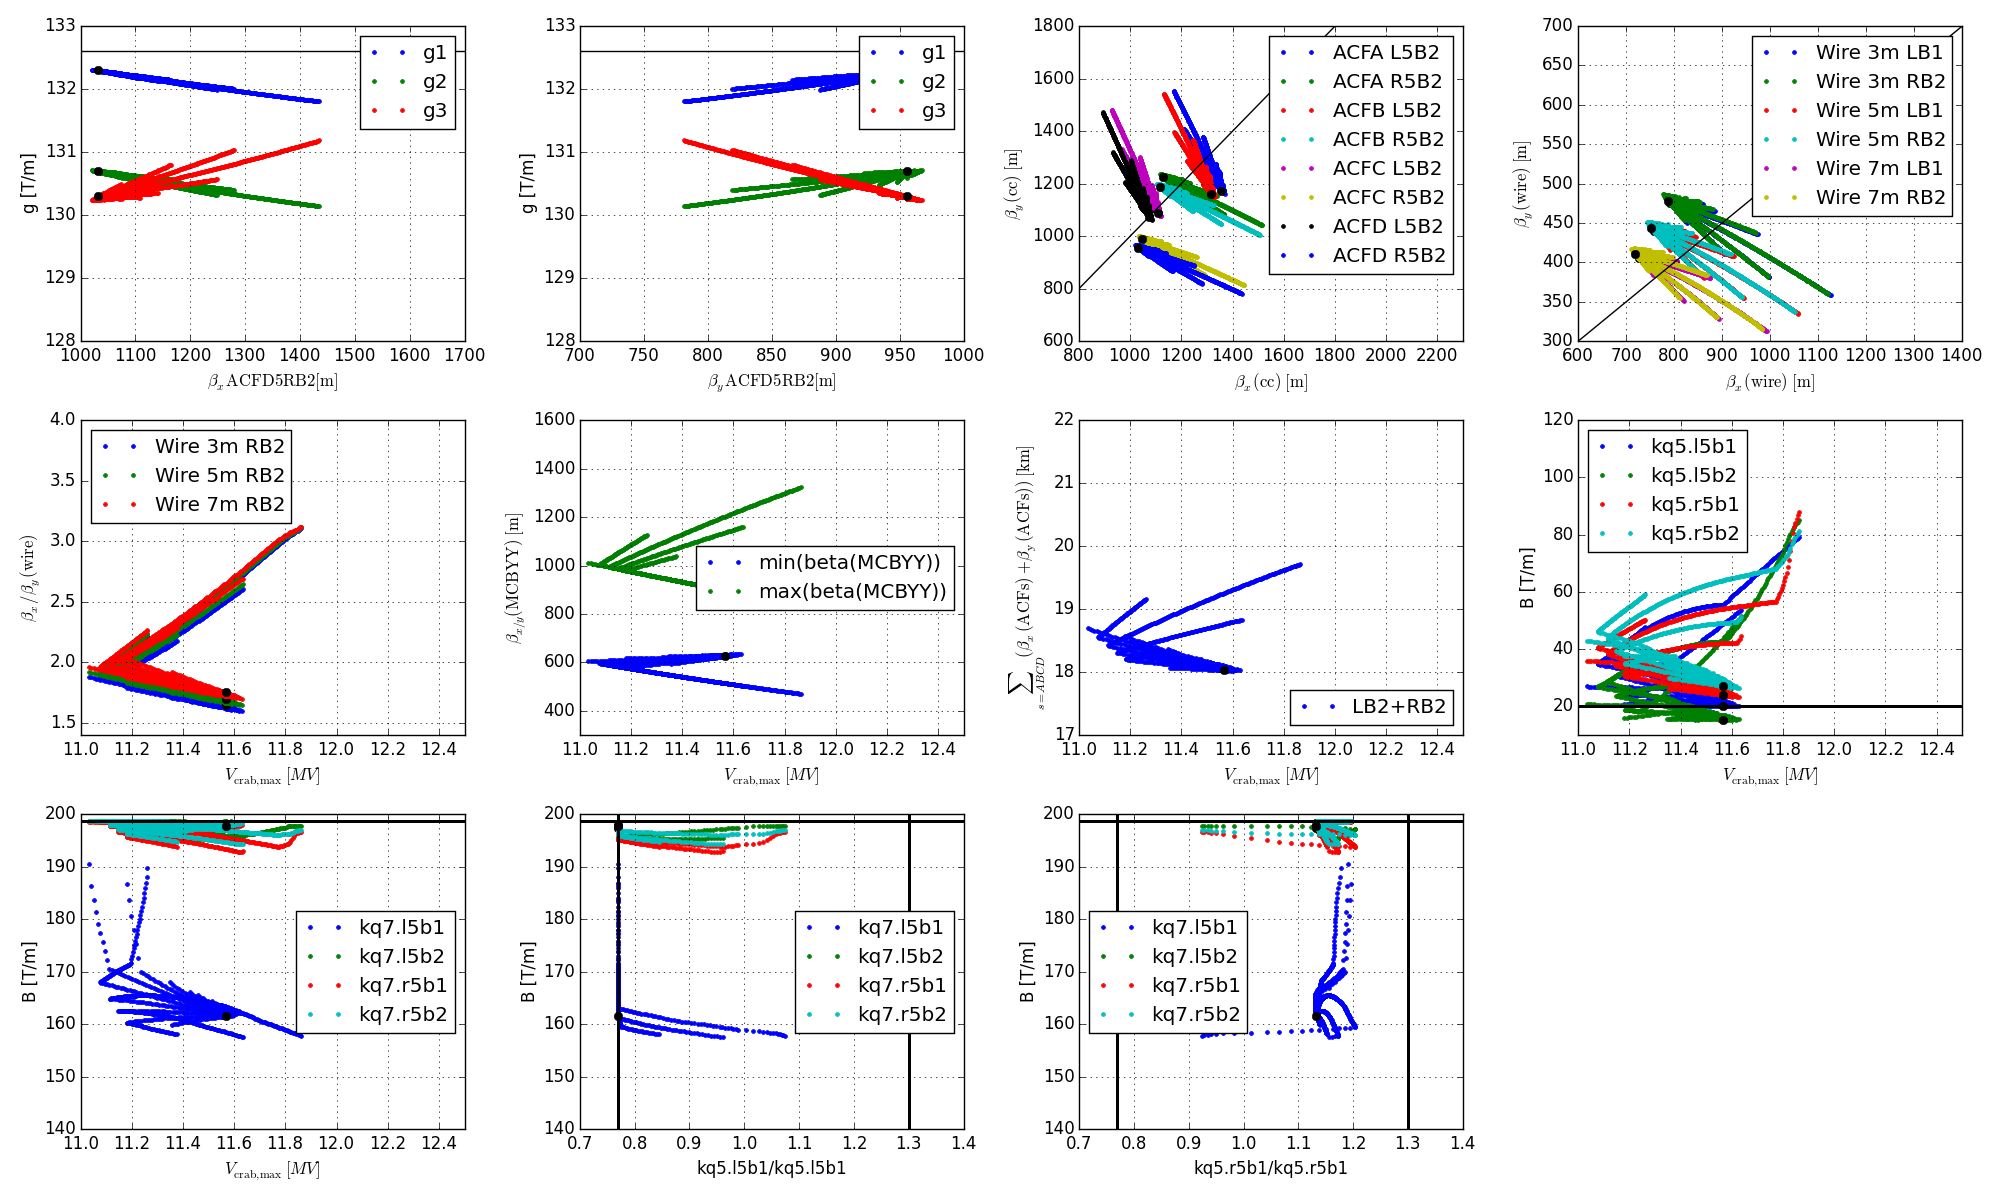
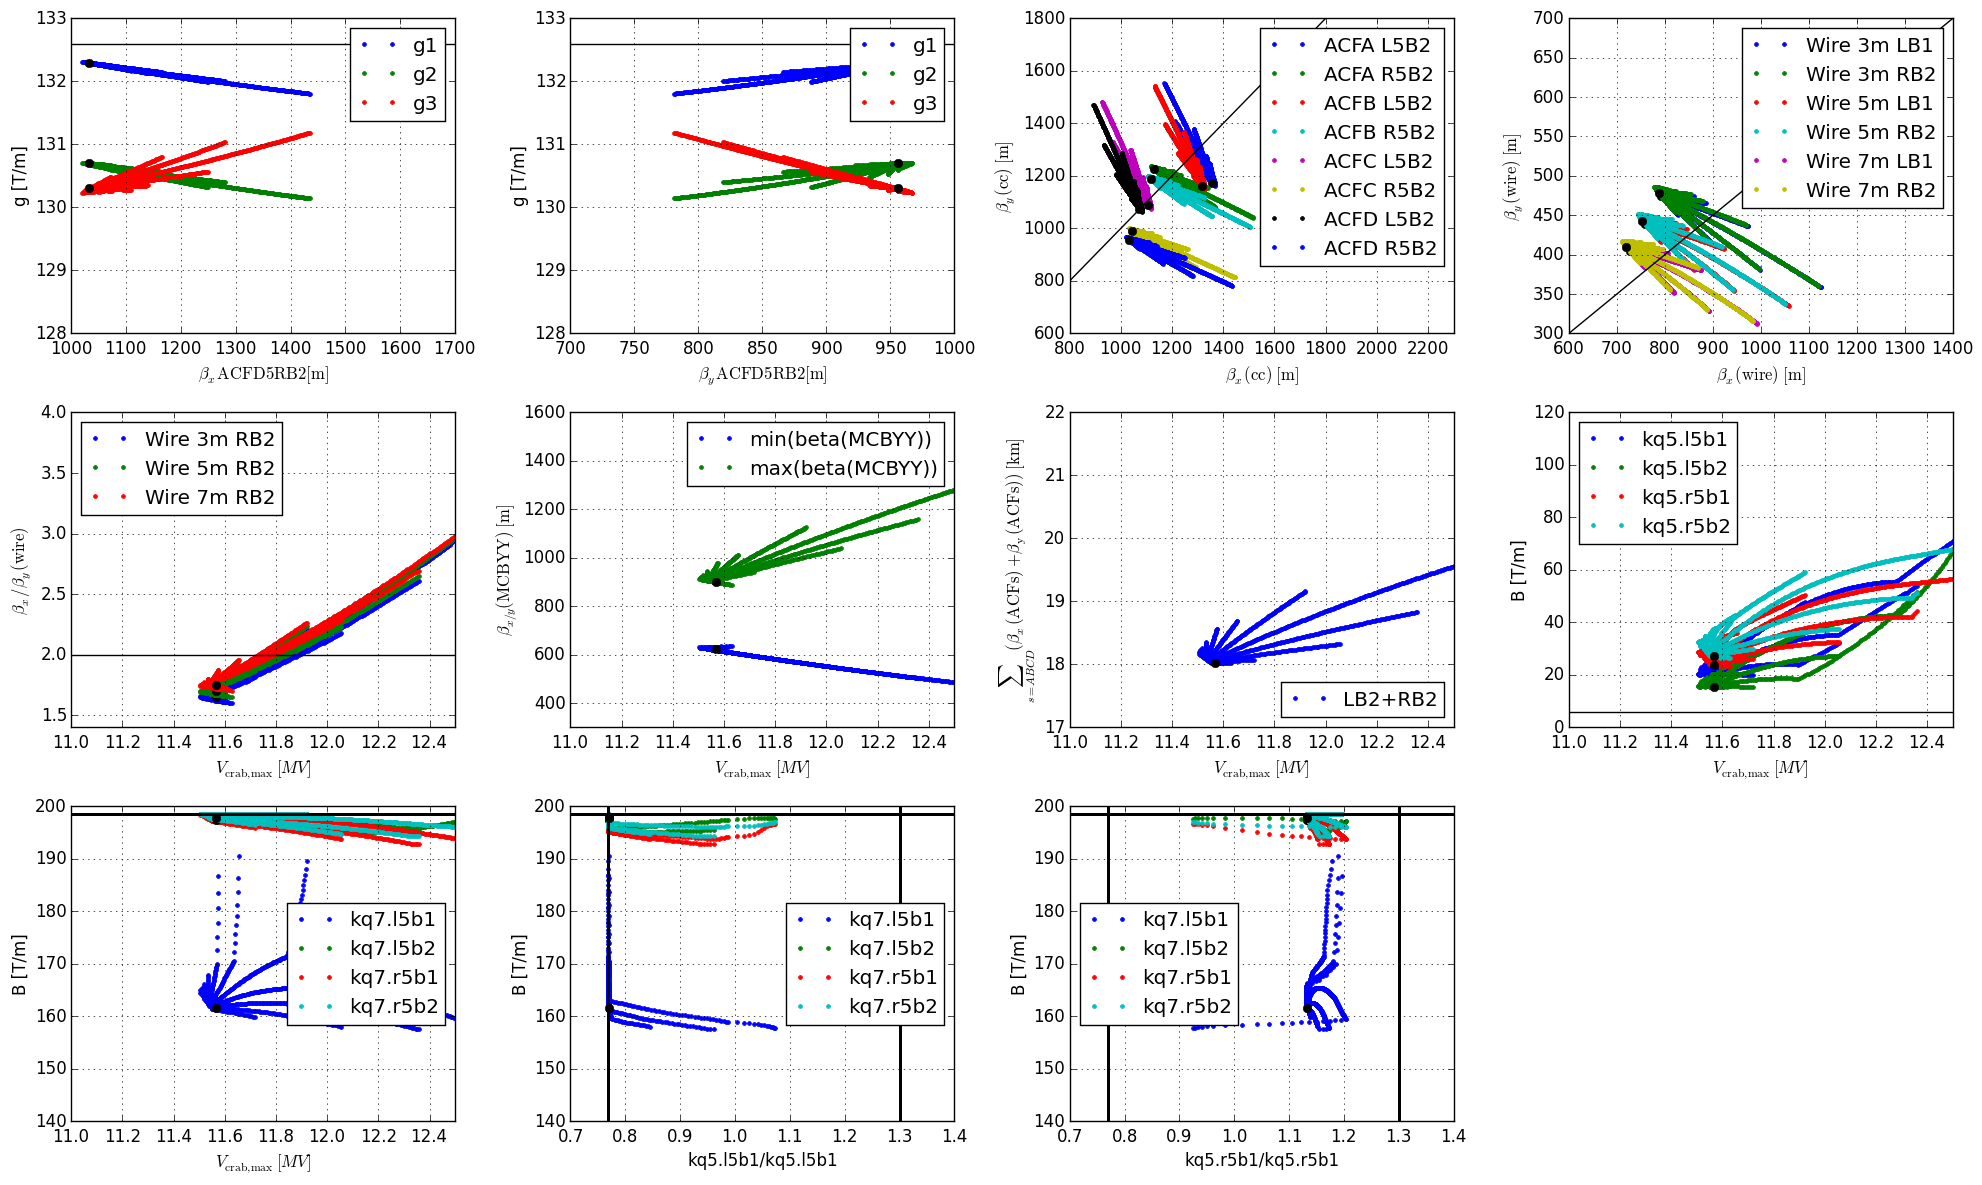
scan results with corrected cc voltage calculation

Changed region(s): [[0.0, 0.0, 1.0, 0.9992], [0.0, 0.0, 0.4924, 0.1873], [0.5232, 0.4371, 0.554, 0.4684]]

diff --git a/study_presqueeze/mkplot.py b/study_presqueeze/mkplot.py
@@ -44,21 +44,29 @@ def plot_range(t,lpar):
   pmax=max([max(t[ll]) for ll in lpar])
   pmin=min([min(t[ll]) for ll in lpar])
   return (pmin-20,pmax+100)
-def mkfig_crab_wire(fn):
+def mkfig_crab_wire(fn,indfig=False):
+    """create all plots in one big figure
+    indfig = False: one figure
+    indfig = True : each subplot in a individual figure"""
     ynn='g1 g2 g3'.split()
     t=optics.open(fn)
     fnbase=fn.split('.tfs')[0]
     case=fnbase.split('/')[0].split('scan')[1]
+    if(indfig == True): figname=fnbase+'_cc'+case
+    else: figname=(fnbase+'_cc'+case+'.png')
     brho7TeV=23348.89927
     qtlimq5= 200.0#Q5
     qtlim3 = 200.0#Q7
     #calculate cc voltage
     t,vmax=get_cc_max(t)#adds also t['vcrabh_lb2_ref'] and t['vcrabh_rb2_ref'] to t
     #--- figure 1
-    figure(fn+'_cc',figsize=(20,12))
-    title(fnbase+'_cc')
-    clf()
-    subplot(341)
+    if(indfig == True):
+      figure()
+    else:
+      figure(fn+'_cc',figsize=(20,12))
+      title(fnbase+'_cc')
+      clf()
+      subplot(341)
     for yy in ynn:
         plot(t.betx_acfdrb2_ref,abs(t[yy]),'.',label=yy)
         plot(t.betx_acfdrb2_ref[0],abs(t[yy])[0],'ko')#starting point
@@ -69,7 +77,10 @@ def mkfig_crab_wire(fn):
     ylim(128,133)
     legend()
     grid()
-    subplot(342)
+    if(indfig == True):
+      savefig(figname+'_1.png')
+      figure() 
+    else: subplot(342)
     for yy in ynn:
         plot(t.bety_acfdrb2_ref,abs(t[yy]),'.',label=yy)
         plot(t.bety_acfdrb2_ref[0],abs(t[yy])[0],'ko')#starting point
@@ -80,7 +91,10 @@ def mkfig_crab_wire(fn):
     ylim(128,133)
     legend()
     grid()
-    subplot(343)
+    if(indfig == True):
+      savefig(figname+'_2.png')
+      figure()
+    else: subplot(343)
     for cc in 'abcd':
       for ll in 'lr':
         pp='_acf%s%sb2_ref'%(cc,ll)
@@ -93,7 +107,10 @@ def mkfig_crab_wire(fn):
     ylim(600,1800)
     legend()
     grid()
-    subplot(344)
+    if(indfig == True):
+      savefig(figname+'_3.png')
+      figure()
+    else: subplot(344)
     #calculate beta at wire at 7m
     t['betx_wire7mlb1_ref'],t['bety_wire7mlb1_ref'],t['betx_wire7mrb2_ref'],t['bety_wire7mrb2_ref']=from_wire_5m(t,2)
     for pw in '357':
@@ -113,12 +130,16 @@ def mkfig_crab_wire(fn):
 #    xlim(plot_range(t,['betx_wire3mlb1_ref','betx_wire5mlb1_ref','betx_wire7mlb1_ref','betx_wire3mrb2_ref','betx_wire5mrb2_ref','betx_wire7mrb2_ref']))
 #    ylim(plot_range(t,['bety_wire3mlb1_ref','bety_wire5mlb1_ref','bety_wire7mlb1_ref','bety_wire3mrb2_ref','bety_wire5mrb2_ref','bety_wire7mrb2_ref']))
     #---- Vmax vs betx/bety wire
-    subplot(345)
+    if(indfig == True):
+      savefig(figname+'_4.png')
+      figure()
+    else: subplot(345)
     #calculate beta at wire at 7m
     t['betx_wire7mlb1_ref'],t['bety_wire7mlb1_ref'],t['betx_wire7mrb2_ref'],t['bety_wire7mrb2_ref']=from_wire_5m(t,2)
     for pw in '357':
       plot(vmax,t['betx_wire'+pw+'mrb2_ref']/t['bety_wire'+pw+'mrb2_ref'],'.',label='Wire '+pw+'m RB2')
       plot(vmax[0],t['betx_wire'+pw+'mrb2_ref'][0]/t['bety_wire'+pw+'mrb2_ref'][0],'ko')#starting point
+    plot([0,20],[2.0,2.0],'k-')
     xlabel(r'$V_{\rm crab, max} \ [MV]$')
     ylabel(r'$\beta_x/\beta_y(\rm wire)$')
     legend(loc='upper left')
@@ -126,7 +147,10 @@ def mkfig_crab_wire(fn):
     xlim(11,12.5)
     ylim(1.4,4.0)
     #---- Vmax vs beta_min(MCBYY), beta_max(MCBYY)
-    subplot(346)
+    if(indfig == True):
+      savefig(figname+'_5.png')
+      figure()
+    else: subplot(346)
     bmin_mcbyy=np.min([t.betx_mcby_ref,t.bety_mcby_ref], axis=0)
     bmax_mcbyy=np.max([t.betx_mcby_ref,t.bety_mcby_ref], axis=0)
     plot(vmax,bmin_mcbyy,'.',label='min(beta(MCBYY))')
@@ -140,7 +164,10 @@ def mkfig_crab_wire(fn):
     ylim(300,1600)
     grid()
     #---- Vmax vs impedance
-    subplot(347)
+    if(indfig == True):
+      savefig(figname+'_6.png')
+      figure()
+    else: subplot(347)
     beta_crab_sum = get_sum_beta(t)
     plot(vmax,beta_crab_sum*1.e-3,'.',label='LB2+RB2')
     plot(vmax[0],beta_crab_sum[0]*1.e-3,'ko')#starting point
@@ -151,7 +178,10 @@ def mkfig_crab_wire(fn):
     ylim(17,22)
     grid()
     #---- Vmax vs kq5
-    subplot(348)
+    if(indfig == True):
+      savefig(figname+'_7.png')
+      figure()
+    else: subplot(348)
     for ss in 'lr':
       for bb in '12':
         plot(vmax,abs(t['kq5.%s5b%s'%(ss,bb)])*brho7TeV,'.',label='kq5.%s5b%s'%(ss,bb)) 
@@ -165,7 +195,10 @@ def mkfig_crab_wire(fn):
     grid()
     legend(loc='upper left') 
     #---- Vmax vs kq7 strength
-    subplot(349)
+    if(indfig == True):
+      savefig(figname+'_8.png')
+      figure()
+    else: subplot(349)
     for ss in 'lr':
       for bb in '12':
         plot(vmax,abs(t['kq7.%s5b%s'%(ss,bb)])*brho7TeV,'.',label='kq7.%s5b%s'%(ss,bb)) 
@@ -179,7 +212,10 @@ def mkfig_crab_wire(fn):
     grid()
     legend(loc='center right')
     #---- imq5l vs kq7 strength
-    subplot(3,4,10)
+    if(indfig == True):
+      savefig(figname+'_9.png')
+      figure()
+    else: subplot(3,4,10)
     imq5l=t['kq5.l5b2']/t['kq5.l5b1']
     for ss in 'lr':
       for bb in '12':
@@ -195,7 +231,10 @@ def mkfig_crab_wire(fn):
     grid()
     legend(loc='center right')
     #---- imq5r vs kq7 strength
-    subplot(3,4,11)
+    if(indfig == True):
+      savefig(figname+'_10.png')
+      figure()
+    else: subplot(3,4,11)
     imq5r=t['kq5.r5b2']/t['kq5.r5b1']
     for ss in 'lr':
       for bb in '12':
@@ -210,9 +249,11 @@ def mkfig_crab_wire(fn):
     ylabel(r'B [T/m]')
     grid()
     legend(loc='center left')
-    tight_layout()
-    figname=(fnbase+'_cc'+case+'.png')
-    savefig(figname)
+    if(indfig == True):
+      savefig(figname+'_11.png')
+    else:
+      tight_layout()
+      savefig(figname)
 close('all')
 #mkfig('results_riccardo/presqueze_q4_scan99.3.tfs')
 #mkfig('results_riccardo/presqueze_q4_scan100.tfs')
@@ -220,17 +261,18 @@ close('all')
 #mkfig('scan_q4_8m/presqueze_q4_scan99.3.tfs')
 #mkfig('scan_q4_8m/presqueze_q4_scan100.tfs')
 #mkfig('scan_q4_8m/presqueze_q4_scan107.tfs')
+indfig=False
 #mkfig_crab_wire('scan_q4_8m/presqueze_q4_scan100.tfs')
 #mkfig_crab_wire('scan_q4_8m/presqueze_q4_scan107.tfs')
-mkfig_crab_wire('scan_q4_8m/presqueze_q4_scan99.3.tfs')
-#mkfig_crab_wire('scan_q4_10m/presqueze_q4_scan99.3.tfs')
-#mkfig_crab_wire('scan_q4_6m/presqueze_q4_scan99.3.tfs')
-#mkfig_crab_wire('scan_q5_9m/presqueze_q4_scan99.3.tfs')
-#mkfig_crab_wire('scan_q5_13m/presqueze_q4_scan99.3.tfs')
-#mkfig_crab_wire('scan_q4_6m_q5_9m/presqueze_q4_scan99.3.tfs')
-#mkfig_crab_wire('scan_q4_6m_q5_13m/presqueze_q4_scan99.3.tfs')
-#mkfig_crab_wire('scan_q4_10m_q5_9m/presqueze_q4_scan99.3.tfs')
-#mkfig_crab_wire('scan_q4_10m_q5_13m/presqueze_q4_scan99.3.tfs')
+mkfig_crab_wire('scan_q4_8m/presqueze_q4_scan99.3.tfs',indfig)
+mkfig_crab_wire('scan_q4_10m/presqueze_q4_scan99.3.tfs')
+mkfig_crab_wire('scan_q4_6m/presqueze_q4_scan99.3.tfs')
+mkfig_crab_wire('scan_q5_9m/presqueze_q4_scan99.3.tfs')
+mkfig_crab_wire('scan_q5_13m/presqueze_q4_scan99.3.tfs')
+mkfig_crab_wire('scan_q4_6m_q5_9m/presqueze_q4_scan99.3.tfs')
+mkfig_crab_wire('scan_q4_6m_q5_13m/presqueze_q4_scan99.3.tfs')
+mkfig_crab_wire('scan_q4_10m_q5_9m/presqueze_q4_scan99.3.tfs')
+mkfig_crab_wire('scan_q4_10m_q5_13m/presqueze_q4_scan99.3.tfs')
 
 draw()
 show()

diff --git a/study_presqueeze/mktable.py b/study_presqueeze/mktable.py
@@ -46,6 +46,34 @@ def print_opt(t,name,idx,lw5q5):
     idx0=idx
   print fmt%(idx0,name.ljust(10),bxbywire3,bxbywire7,t['betx_wire3mrb2_ref'][idx],t['betx_wire7mrb2_ref'][idx],t['bety_wire3mrb2_ref'][idx],t['bety_wire7mrb2_ref'][idx],vmax[idx],imp[idx]*1.e-3,t['betx_mbrdrb2_ref'][idx],t['bety_mbrdrb2_ref'][idx],t['betx_mcby_ref'][idx],t['bety_mcby_ref'][idx],t['betx_q5rb2_ref'][idx],t['bety_q5rb2_ref'][idx])
 
+def print_opt_sum(t,name,idx,lw5q5):
+  # wire
+  bxbywire5=t['betx_wire5mrb2_ref'][idx]/t['bety_wire5mrb2_ref'][idx]
+  bmaxwire5=max([t['betx_wire5mrb2_ref'][idx],t['bety_wire5mrb2_ref'][idx]])
+  bminwire5=min([t['betx_wire5mrb2_ref'][idx],t['bety_wire5mrb2_ref'][idx]])
+  #cc voltage
+  t,vmax=get_cc_max(t)
+  #impedance
+  imp=get_sum_beta(t)
+  #Q4
+  bmaxq4=max([t['betx_mcby_ref'][idx],t['bety_mcby_ref'][idx]])
+  bminq4=min([t['betx_mcby_ref'][idx],t['bety_mcby_ref'][idx]])
+  #Q5
+  t['betx_q5lb1_ref'],t['bety_q5lb1_ref'],t['betx_q5rb2_ref'],t['bety_q5rb2_ref']=from_wire_5m(t,lw5q5) 
+  bmaxq5=max([t['betx_q5lb1_ref'][idx],t['bety_q5lb1_ref'][idx],t['betx_q5rb2_ref'][idx],t['bety_q5rb2_ref'][idx]])
+  bminq5=min([t['betx_q5lb1_ref'][idx],t['bety_q5lb1_ref'][idx],t['betx_q5rb2_ref'][idx],t['bety_q5rb2_ref'][idx]])
+  #D2
+  lacfad2=-18.972000#distance start D2 and ACFA cavity
+  t['betx_mbrdlb1_ref'],t['bety_mbrdlb1_ref'],t['betx_mbrdrb2_ref'],t['bety_mbrdrb2_ref']=from_acfa(t,lacfad2)
+  bmaxd2=max([t['betx_mbrdlb1_ref'][idx],t['bety_mbrdlb1_ref'][idx],t['betx_mbrdrb2_ref'][idx],t['bety_mbrdrb2_ref'][idx]])
+  bmind2=min([t['betx_mbrdlb1_ref'][idx],t['bety_mbrdlb1_ref'][idx],t['betx_mbrdrb2_ref'][idx],t['bety_mbrdrb2_ref'][idx]])
+  fmt='%4u %10s'+('%5.2f'.center(15))+('%5.2f/%5.2f'.center(30))+('%5.2f'.center(15))+('%5.4f'.center(16))+('%5.2f/%5.2f'.center(15)*3) 
+  if 'idx' in t.keys():
+    idx0=t.idx[idx]-1
+  else:
+    idx0=idx
+  print fmt%(idx0,name.ljust(10),bxbywire5,bminwire5,bmaxwire5,vmax[idx],imp[idx]*1.e-3,bmind2,bmaxd2,bminq4,bmaxq4,bminq5,bmaxq5)
+
 def print_con():
   print 'wire: RB2'
   print 'MCBYY: RB2'
@@ -59,6 +87,12 @@ def print_header(fn):
   w37='   3m    7m    '
   print fmt%('idx','optics'.ljust(10),'betx/bety(wire)','betx(wire) [m]'.center(15),'bety(wire) [m]'.center(15),'Vmax [MV]'.center(10),'sum_beta_cc [km]'.center(16),'MBRD [m]'.center(15),'MCBYY [m]'.center(15),'MQY [m]'.center(15))
   print fmt%('','',w37,w37,w37,'','','betx    bety'.center(15),'betx    bety'.center(15),'betx    bety'.center(15))
+
+def print_header_sum(fn):
+  print '\n%s'%fn
+  fmt='%4s %10s %15s %30s %15s %16s %15s %15s %15s'
+  print ' '.center(100)+'betmin/betmax [m]'.center(45)
+  print fmt%('idx','optics'.ljust(10),'betx/bety(wire)','betmin/betmax(wire) [m]'.center(30),'Vmax [MV]'.center(15),'sum_beta_cc [km]'.center(16),'MBRD [m]'.center(15),'MCBYY [m]'.center(15),'MQY [m]'.center(15))
 
 def mktab(fn):
   print_header(fn)
@@ -83,9 +117,16 @@ def mktab(fn):
 def mktab_opt(fn):
   print_header(fn)
   t=optics.open(fn)
-  lw5q5=21.275
+  lw5q5=21.275#distance wire 5m to q5
   for idx,name in zip(range(len(t['idx'])),['presqueeze','wire','ccvolt','impedance','q4ap']):
     print_opt(t,name,idx,lw5q5)
+
+def mktab_opt_sum(fn):
+  print_header_sum(fn)
+  t=optics.open(fn)
+  lw5q5=21.275#distance wire 5m to q5
+  for idx,name in zip(range(len(t['idx'])),['presqueeze','wire','ccvolt','impedance','q4ap']):
+    print_opt_sum(t,name,idx,lw5q5)
 
 print_con();
 mktab_opt('scan_q4_8m/presqueeze_q4_scan_opt99.3.tfs')
@@ -100,3 +141,6 @@ mktab('scan_q4_6m_q5_9m/presqueze_q4_scan99.3.tfs')
 #mktab_opt('scan_q4_8m/presqueeze_q4_scan_opt99.3.tfs')
 #mktab_opt('scan_q4_10m_q5_13m/presqueeze_q4_scan_opt99.3.tfs')
 #mktab_opt('scan_q4_6m_q5_9m/presqueeze_q4_scan_opt99.3.tfs')
+#mktab_opt_sum('scan_q4_8m/presqueeze_q4_scan_opt99.3.tfs')
+#mktab_opt_sum('scan_q4_10m_q5_13m/presqueeze_q4_scan_opt99.3.tfs')
+#mktab_opt_sum('scan_q4_6m_q5_9m/presqueeze_q4_scan_opt99.3.tfs')

diff --git a/study_presqueeze/analysispkg.py b/study_presqueeze/analysispkg.py
@@ -17,7 +17,7 @@ def from_acfa(t,ldrift):
   bxrb2=t.betx_acfarb2_ref-2*t.alfx_acfarb2_ref*ldrift+ldrift**2*(1+t.alfx_acfarb2_ref**2)/t.betx_acfarb2_ref
   byrb2=t.bety_acfarb2_ref-2*t.alfy_acfarb2_ref*ldrift+ldrift**2*(1+t.alfy_acfarb2_ref**2)/t.bety_acfarb2_ref
   return bxlb1,bylb1,bxrb2,byrb2
-def get_cc(t,ll='r',bb='2'):
+def get_cc(t,ll='r',bb='2',xy='x'):
   """calculate the cc voltage *vcrab* in [MV]:
      vcrab = ncc*Ebeam*tan(xing)*sigma_s/(beta*sin(2*pi*hrf_cc*sigma_s/clight))*1.e-6
   ncc   : number of cc per IP and side (e.g. lb2)
@@ -35,7 +35,7 @@ def get_cc(t,ll='r',bb='2'):
   Ebeam=7.0e12 #V
   sigma_s=0.075 #bunch length [m]
   ncc=4#number of crab cavities
-  beta  = np.sum(np.array([ sqrt(beta_star*t['betx_acf%s%sb%s_ref'%(aa,ll,bb)]) for aa in 'abcd']),axis=0)
+  beta  = np.sum(np.array([ sqrt(beta_star*t['bet%s_acf%s%sb%s_ref'%(xy,aa,ll,bb)]) for aa in 'abcd']),axis=0)
   vcrab = ncc*Ebeam*tan(xing)*sigma_s/(beta*sin(2*pi*hrf_cc*sigma_s/clight))*1.e-6
   return vcrab
 def get_cc_max(t):
@@ -45,15 +45,15 @@ def get_cc_max(t):
   it is sufficient to take the max over one beam
   and one ir"""
   if 'v_crabv.r1b1' in t.keys():
-    aa=aa='v_crabh.l1b1,v_crabh.r1b1,v_crabh.l5b1,v_crabh.r5b1,v_crabh.l1b2,v_crabh.r1b2,v_crabh.l5b2,v_crabh.r5b2,v_crabv.l1b1,v_crabv.r1b1,v_crabv.l5b1,v_crabv.r5b1,v_crabv.l1b2,v_crabv.r1b2,v_crabv.l5b2,v_crabv.r5b2'.split(',')
+    aa='v_crabh.l1b1,v_crabh.r1b1,v_crabh.l5b1,v_crabh.r5b1,v_crabh.l1b2,v_crabh.r1b2,v_crabh.l5b2,v_crabh.r5b2,v_crabv.l1b1,v_crabv.r1b1,v_crabv.l5b1,v_crabv.r5b1,v_crabv.l1b2,v_crabv.r1b2,v_crabv.l5b2,v_crabv.r5b2'.split(',')
     t['vcrabh_lb2_ref'] = t['v_crabh.l5b2']
     t['vcrabh_rb2_ref'] = t['v_crabh.r5b2']
     vmax=np.max([ t[kk] for kk in aa ],axis=0)
   else:
-    t['vcrabh_lb2_ref'] = get_cc(t,ll='l',bb='2')
-    t['vcrabh_rb2_ref'] = get_cc(t,ll='r',bb='2')
-    aa=np.array([ t['vcrabh_lb2_ref'],t['vcrabh_rb2_ref']])
-    vmax=aa.max(axis=0)
+    t['vcrabh_lb2_ref'] = get_cc(t,ll='l',bb='2',xy='x')
+    t['vcrabh_rb2_ref'] = get_cc(t,ll='r',bb='2',xy='x')
+    vcrab = np.array([ get_cc(t,ll,bb,xy) for ll in 'lr' for bb in '12' for xy in 'xy' ])
+    vmax=vcrab.max(axis=0)
   return t,vmax
 
 def get_sum_beta(t):
